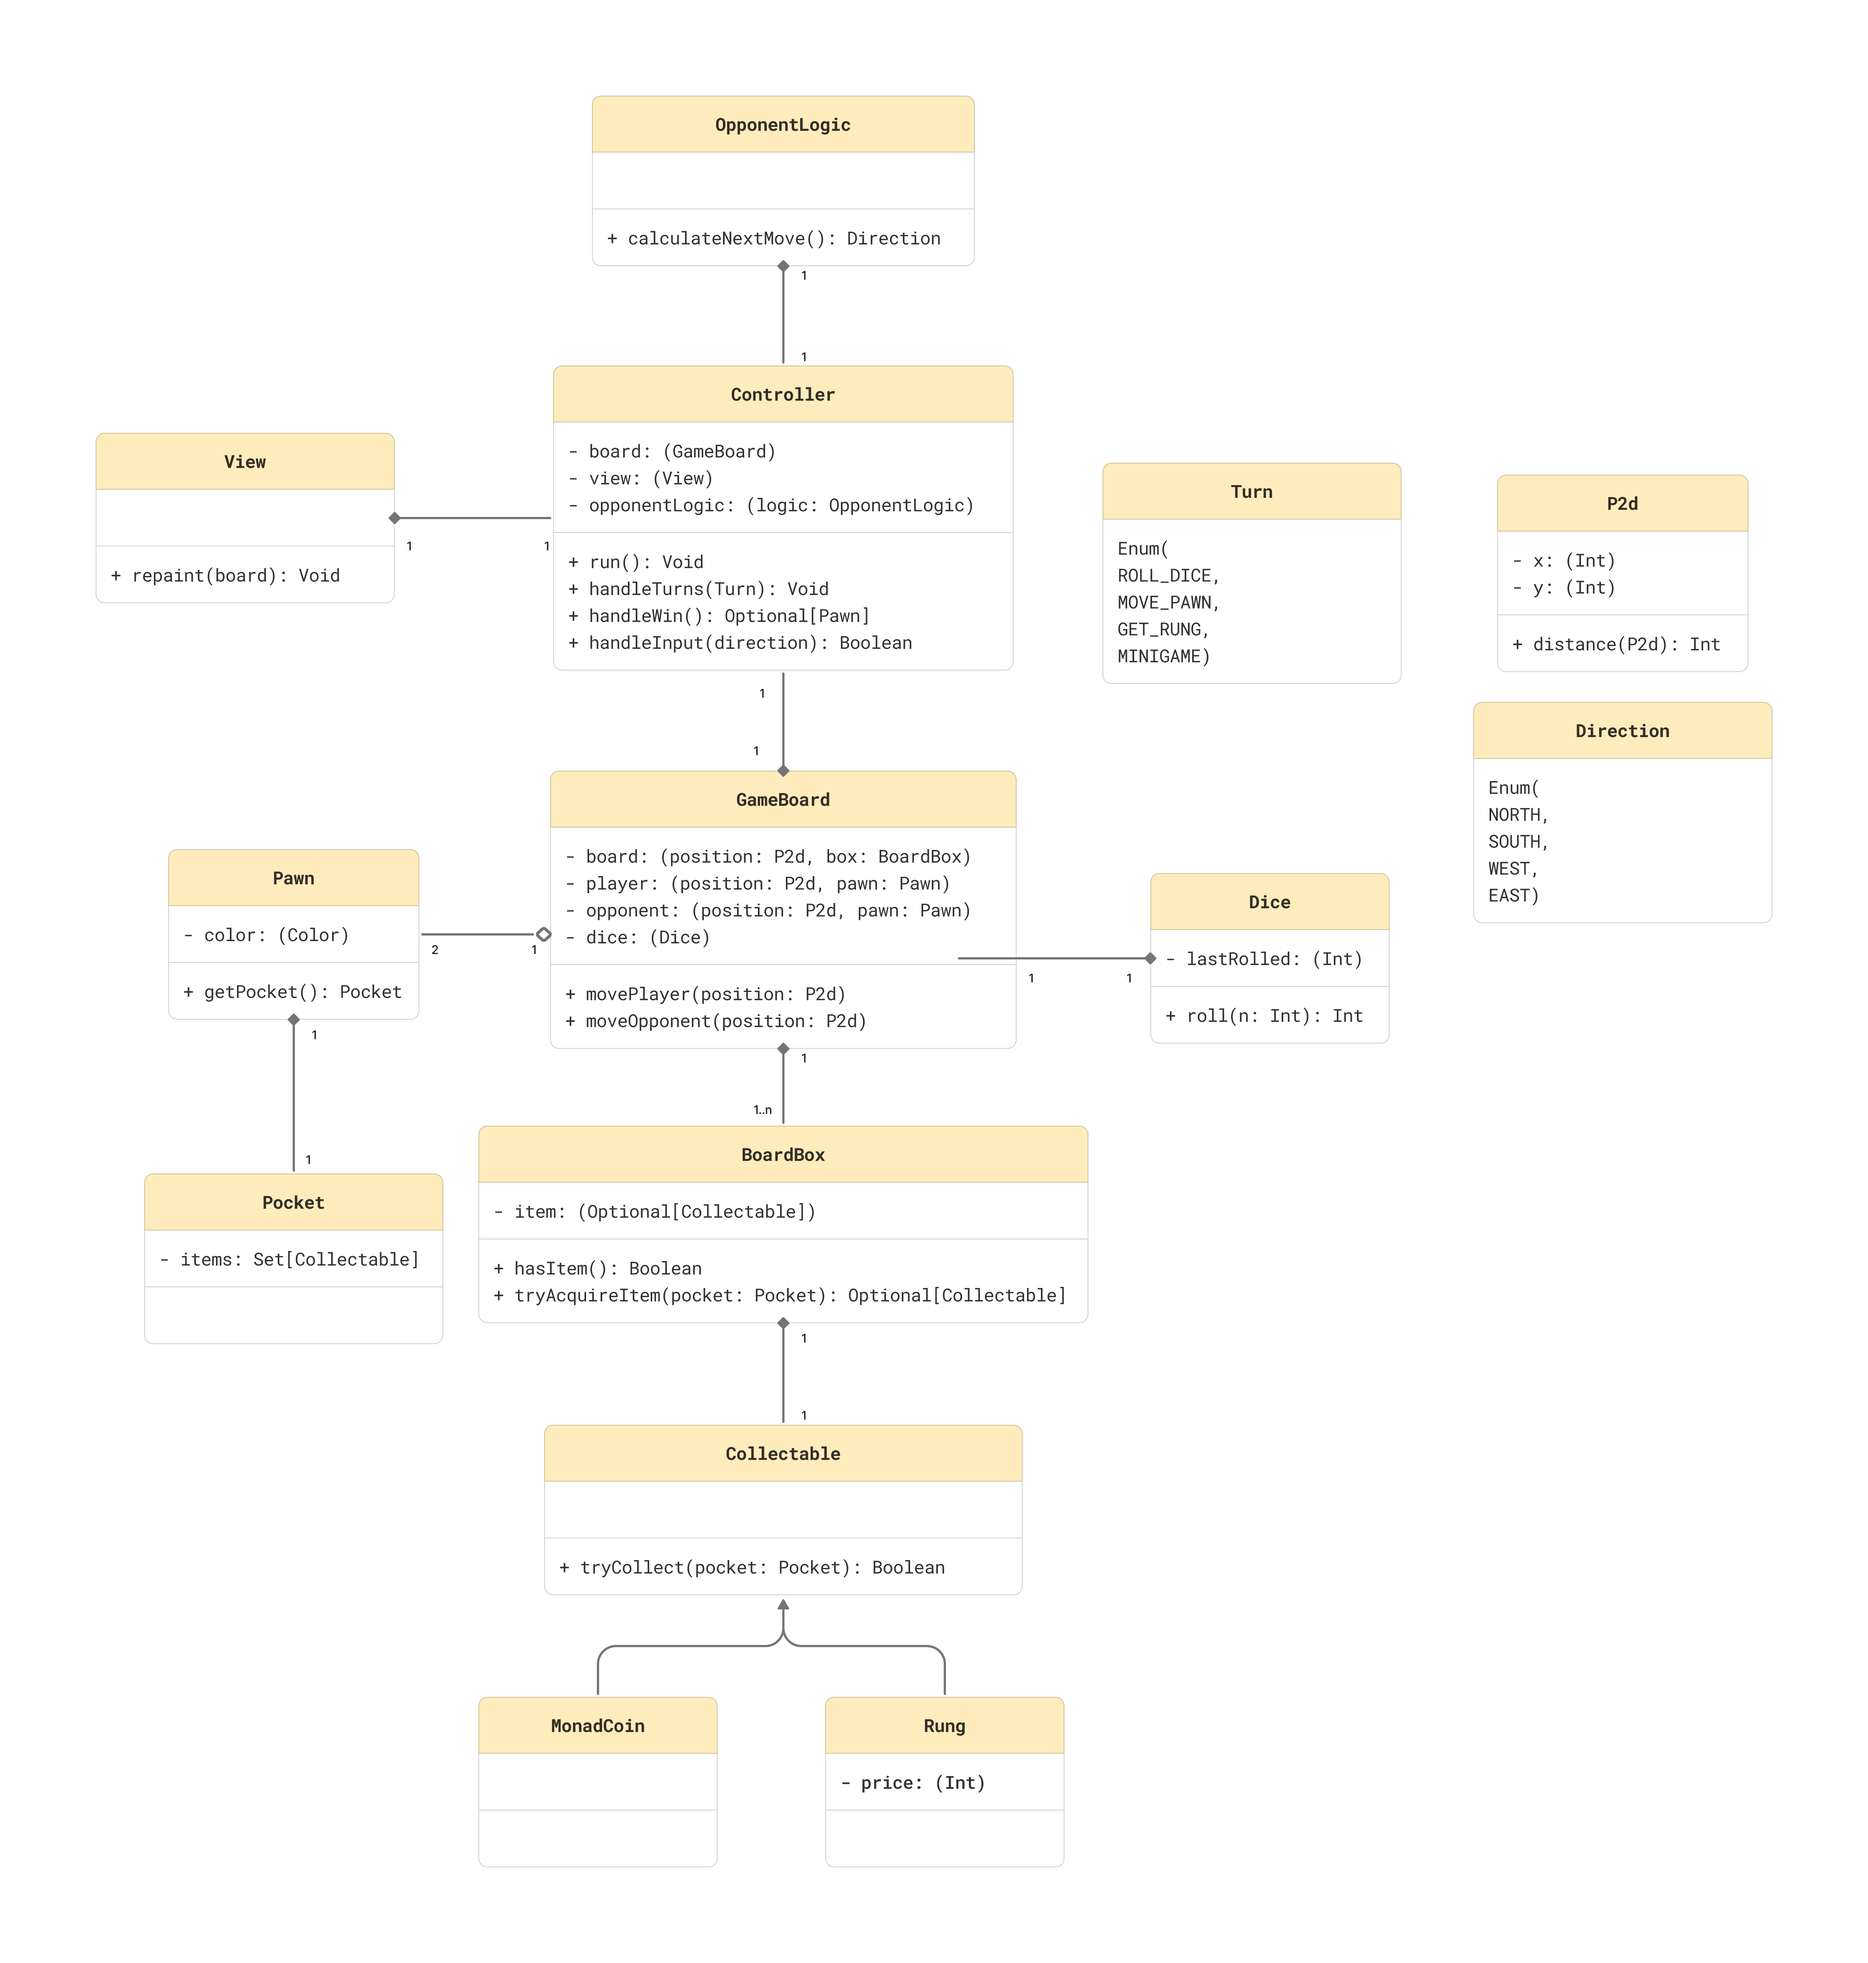
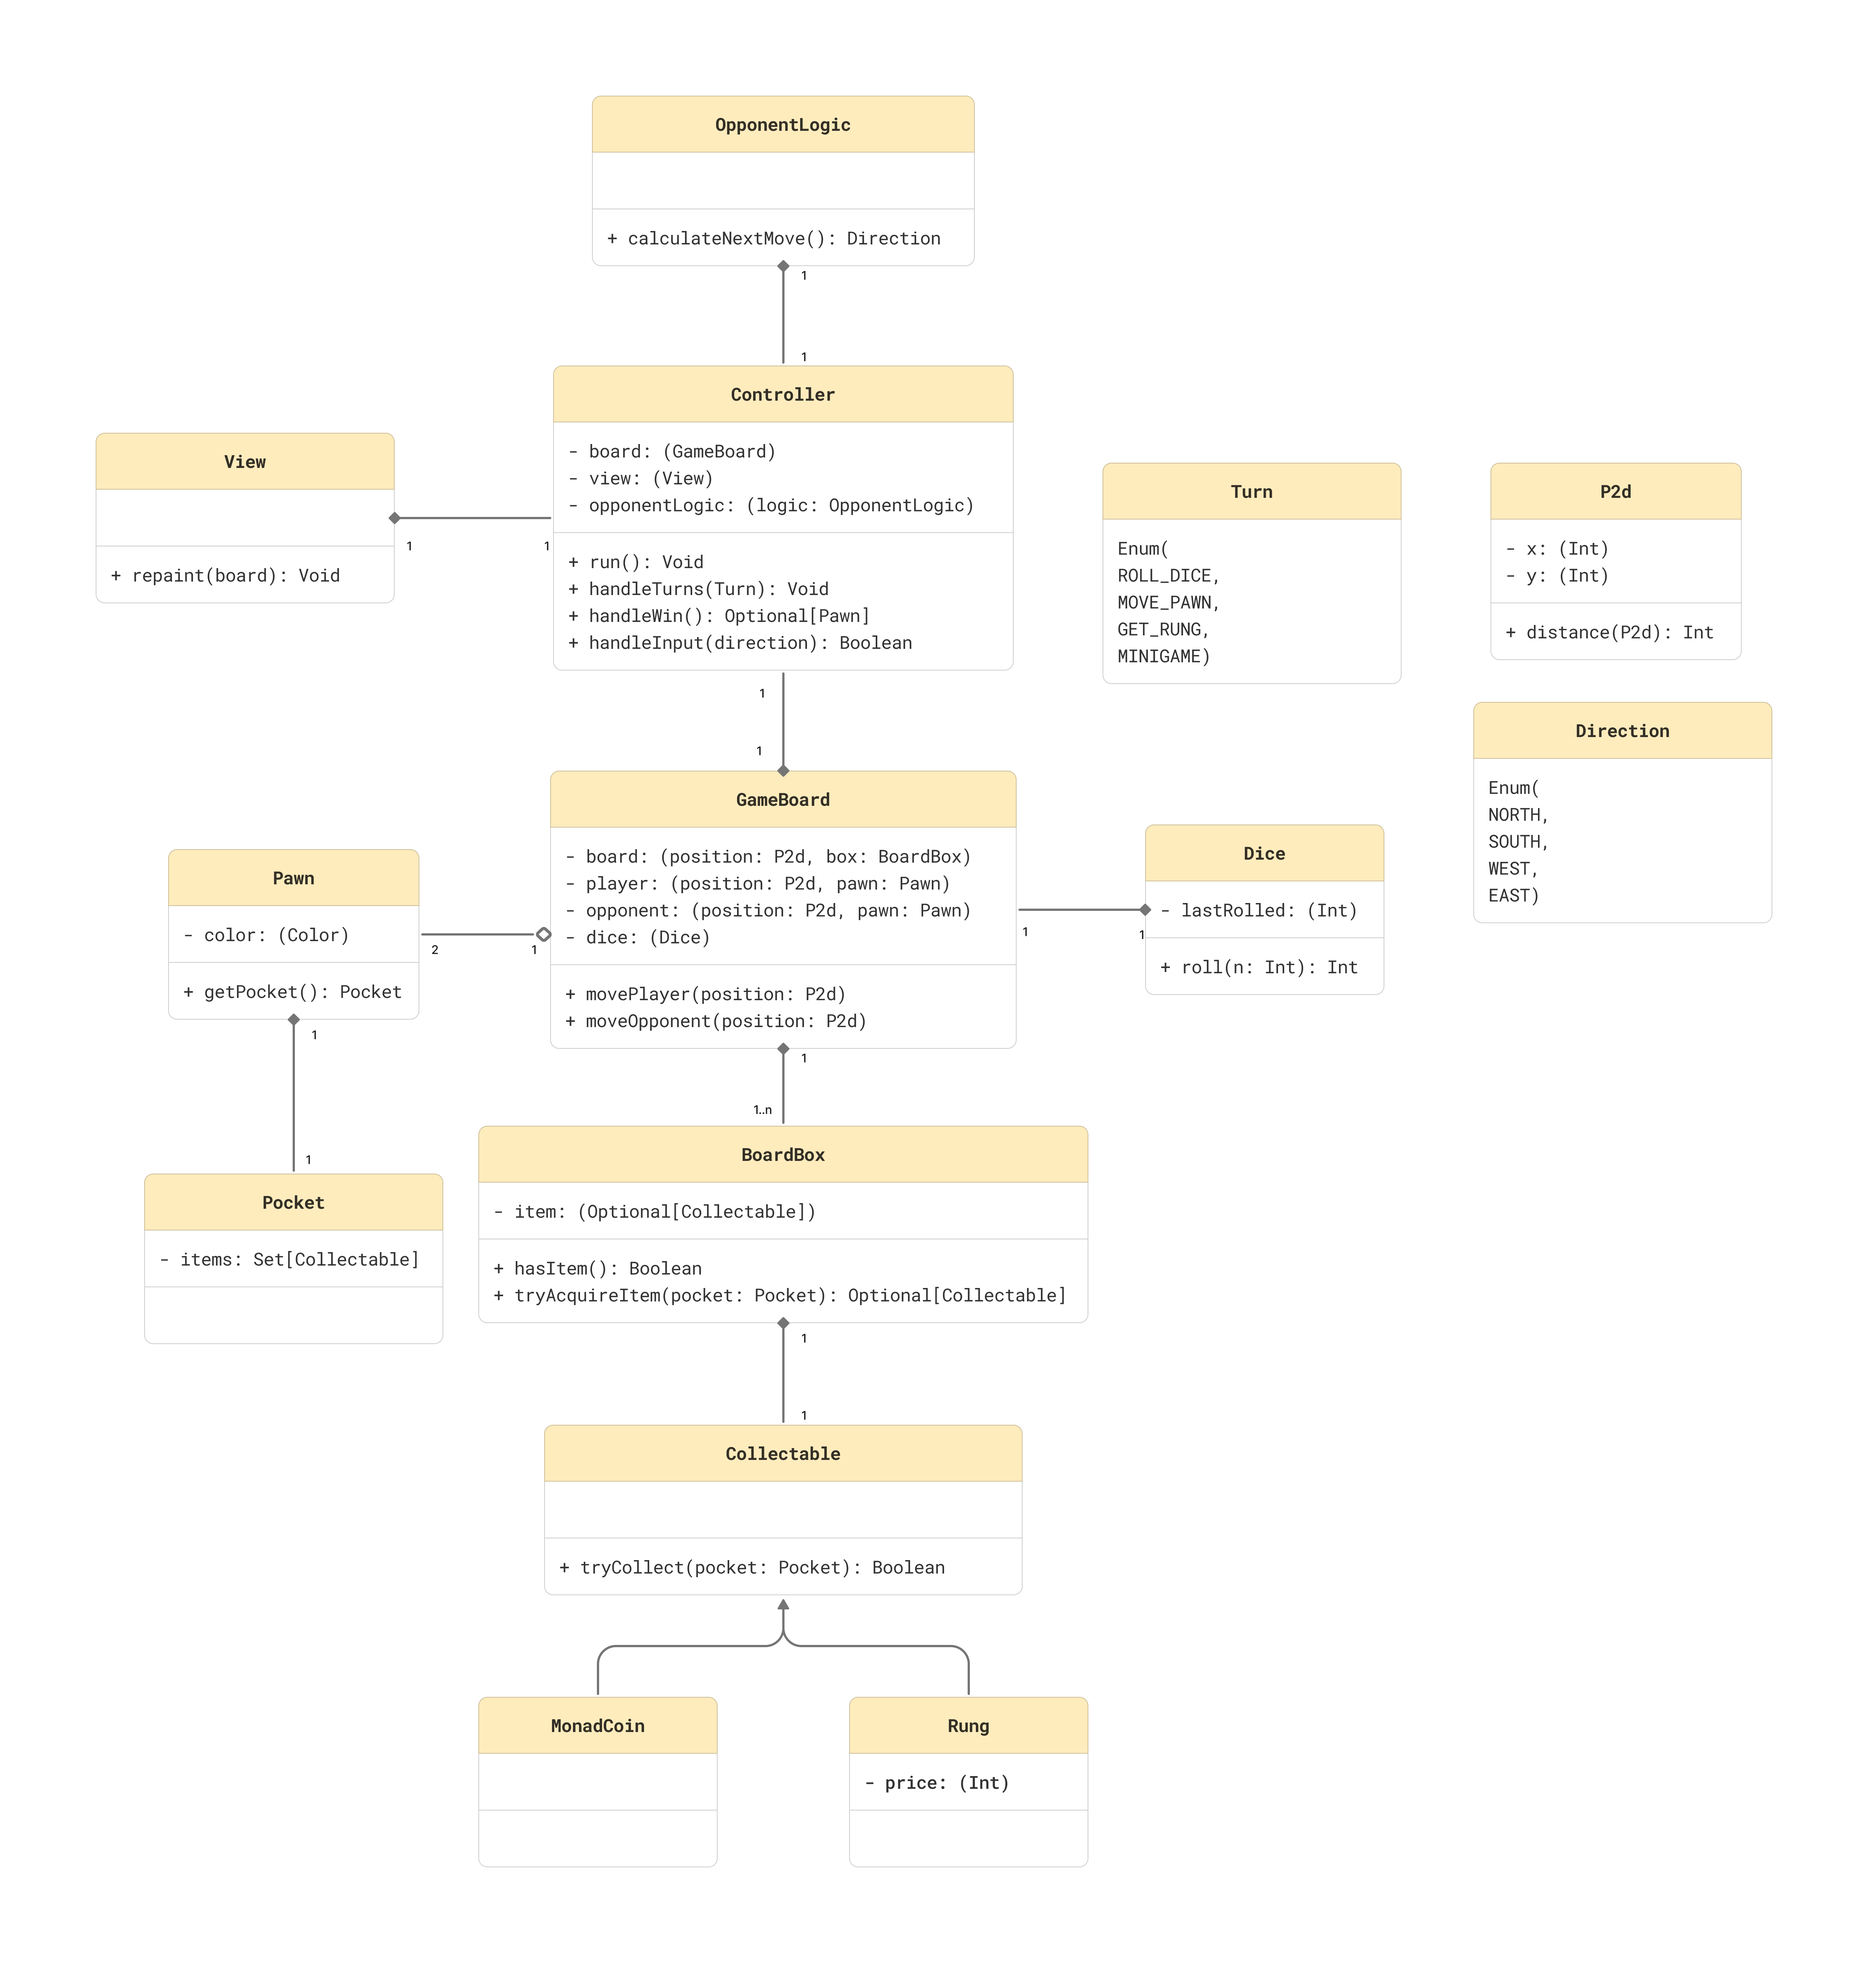
docs: add class diagram section with updated details and figure

diff --git a/report/sections/subsections/design-choices.tex b/report/sections/subsections/design-choices.tex
@@ -29,3 +29,18 @@ Sono suddivisi nelle schermate principali del gioco:
 \subsubsection{Diagramma degli stati} \label{sec:design-choices:state-diagram}
 
 \subsubsection{Diagramma delle classi} \label{sec:design-choices:class-diagram}
+Il diagramma delle classi presentato a figura \ref{fig:class-diagram} è un ampliamento del diagramma presentato precedentemente
+(figura \ref{fig:domain-class-diagram}), a cui sono stati aggiunti alcuni dettagli e, soprattutto, le classi di Controller e View.
+In particolare la View espone solo il metodo di repaint in quanto il resto delle operazioni, come la gestione degli eventi e dell'input,
+viene gestito dal Controller. Quest'ultimo, a sua volta, si occupa di comunicare con il Model per ottenere le informazioni necessareie
+e aggiornarne lo stato, che successivamente verrà comunicato alla View. In più sono presenti alcune classi di utility che, nonstante
+non siano connesse direttamente ad altre classi, sono riportate per completezza di informazione. Direction e Turn sono due Enum che
+rappresentano rispettivamente le direzioni in cui può muoversi una pedina e il turno di gioco e le fasi del gioco. P2d è invece una classe
+che rappresenta un punto bidimensionale, utile per rappresentare le coordinate di una pedina o di un oggetto nel tabellone senza 
+dover utilizzare una coppia di variabili.
+\begin{figure}[ht!]
+    \centering
+    \includegraphics[width=\textwidth]{figures/ClassDiagram_ScalaParty.png}
+    \caption{Diagramma delle classi per il tabellone}
+    \label{fig:class-diagram}
+\end{figure}
